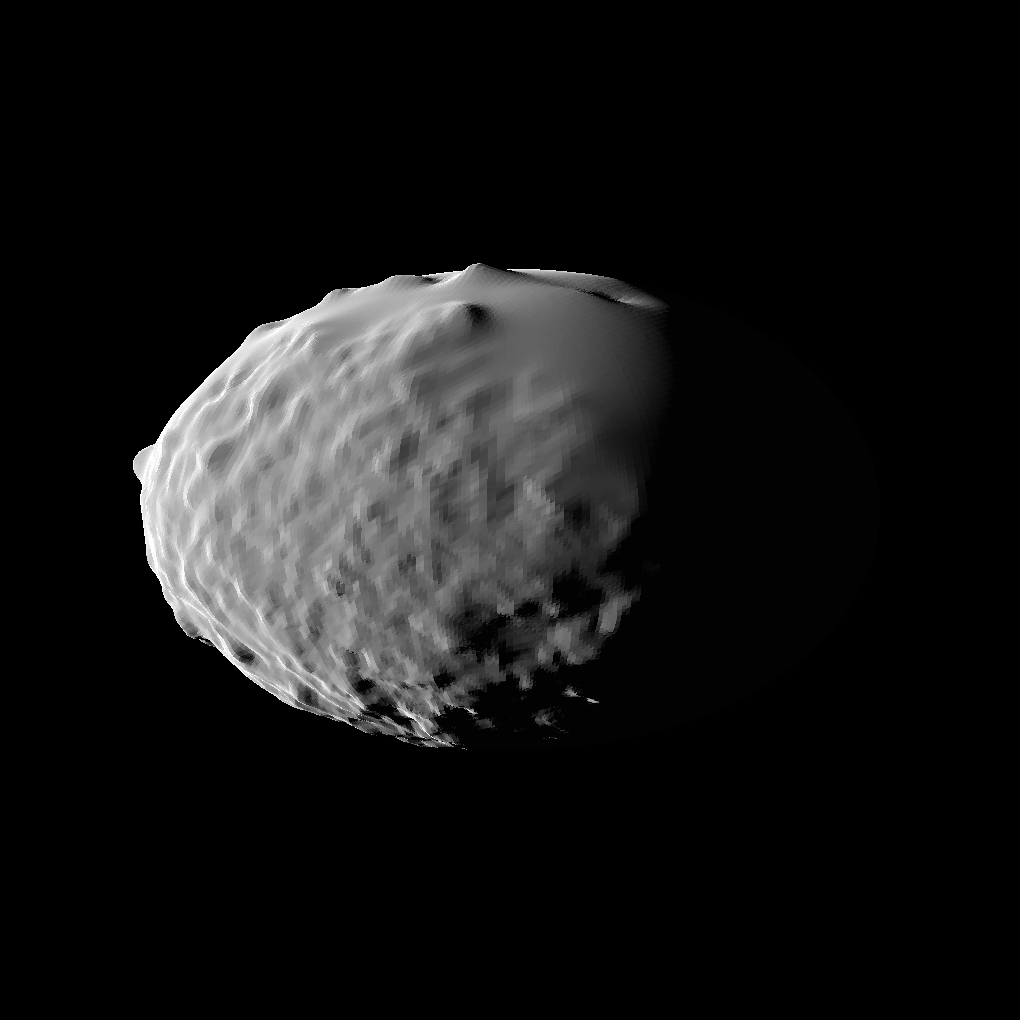
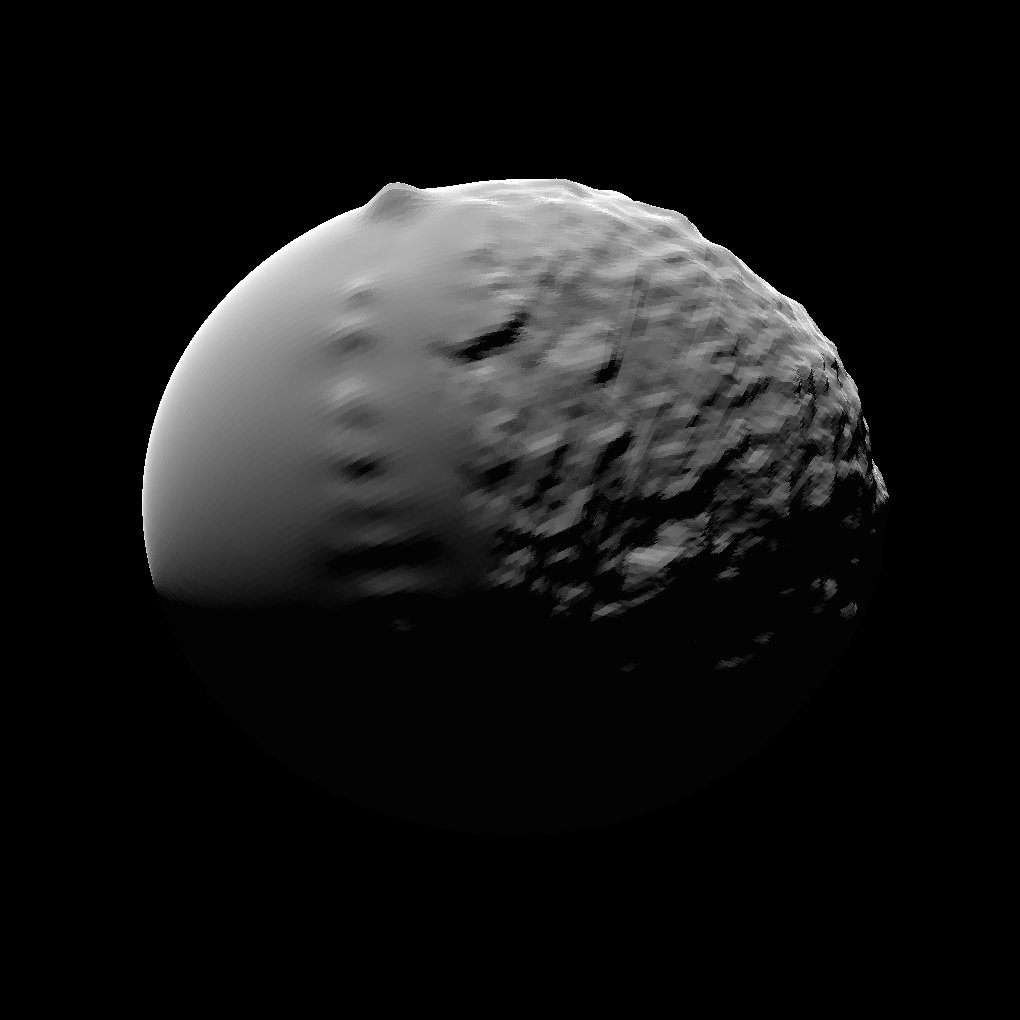
feat(tool): simulate-image de-shading is opt-in via --deshade
The de-shade correction is approximate (Lambert divisor on LS radiance, fitted
direction), so the safe constant-albedo rendering is now the default and the
texture path is explicitly requested with --deshade. Ladder docs re-rendered at
2027-03-15T16:00Z against the 2026-08-20 HERA SKD, which also surfaced two
lessons now documented as caveats: the DRACO mosaic footprint edge shows as a
seam when in view, and results follow the kernel-set version (planning kernels
are regenerated regularly), so record the SKD version alongside the gain.

diff --git a/docs/Pro3DTool-SimulateImage.md b/docs/Pro3DTool-SimulateImage.md
@@ -23,13 +23,15 @@ pro3d-tool simulate-image --opc <body-opc> --time <iso8601-utc> [options]
   PSJ](https://doi.org/10.3847/PSJ/ad2b60): near-lunar scattering, minimal multiple
   scattering, p ≈ 0.16). Plain Lambert shading over-darkens the limb for regolith;
   SPC's own forward model is the closely related lunar-Lambert function.
-- **De-shaded texture albedo.** OPC textures projected from real images (the DRACO
-  mosaic) have illumination baked in — for `Dimorphos_DRACO1` this is measurable:
-  per-vertex brightness follows the surface normal at r ≈ 0.6 with a hard terminator.
-  The verb fits the baked light direction from the OPC's own per-vertex normals and
-  brightness, divides it back out in the shader, and rescales so the mean matches
-  `--albedo`. Where the source mosaic is shadowed, unobserved (DRACO saw only one
-  hemisphere) or near its own terminator, the constant albedo is used instead.
+- **De-shaded texture albedo (opt-in, `--deshade`).** OPC textures projected from real
+  images (the DRACO mosaic) have illumination baked in — for `Dimorphos_DRACO1` this is
+  measurable: per-vertex brightness follows the surface normal at r ≈ 0.6 with a hard
+  terminator. With `--deshade`, the verb fits the baked light direction from the OPC's
+  own per-vertex normals and brightness, divides it back out in the shader, and rescales
+  so the mean matches `--albedo`. Where the source mosaic is shadowed, unobserved (DRACO
+  saw only one hemisphere) or near its own terminator, the constant albedo is used
+  instead. Off by default because the correction is approximate (see Caveats); the
+  default surface is the constant `--albedo` plus micro-structure.
 - **Procedural micro-structure.** The OPC is smooth at ~0.2 m/vertex; sub-mesh roughness
   is added by perturbing the shading normal with multi-octave value noise evaluated in
   body-fixed coordinates (`--micro-scale`, `--micro-amplitude`).
@@ -58,7 +60,7 @@ Output is one 8-bit greyscale PNG at the instrument's native size.
 | `--distance <m>` | camera range override, along the SPICE direction; `0` (default) uses the spacecraft's real distance |
 | `--width`, `--height` | output size; `0` (default) uses the instrument's native size |
 | `--albedo <v>` | normal reflectance (default `0.16`, measured for Dimorphos) |
-| `--no-deshade` | skip the texture de-shading; constant albedo everywhere |
+| `--deshade` | fit + divide the baked illumination out of the OPC texture and use it as albedo; default off (constant albedo) |
 | `--deshade-layer <name>` | per-vertex layer with the texture brightness (default `DRACO`) |
 | `--micro-scale <m>` | micro-structure feature size in metres (default `0.5`) |
 | `--micro-amplitude <v>` | normal perturbation strength; `0` disables (default `0.3`) |
@@ -75,9 +77,10 @@ is the inner one):
 ```
 pro3d-tool simulate-image ^
   --opc  C:\data\Dimorphos_DRACO1\Dimorphos_DRACO1 ^
-  --time 2027-03-15T19:00:00Z ^
+  --time 2027-03-15T16:00:00Z ^
   --distance 2500 ^
   --micro-scale 3 ^
+  --deshade ^
   --out  dimorphos.png
 ```
 
@@ -90,34 +93,34 @@ scripts/run-simulate-image.sh  <testdata>
 
 ## What it produces — layer by layer
 
-All renders: Dimorphos through AFC-1 from 2.5 km (2027-03-15T19:00Z, phase 70°,
-`--distance 2500 --micro-scale 3`). This is also the recommended validation procedure for
-a new dataset or a suspicious-looking image: switch the layers off, then re-enable them
-one at a time.
+All renders: Dimorphos through AFC-1 from 2.5 km (2027-03-15T16:00Z, phase 63°,
+`--distance 2500 --micro-scale 3`, HERA SKD as of 2026-08-20). This is also the
+recommended validation procedure for a new dataset or a suspicious-looking image: switch
+the layers off, then re-enable them one at a time.
 
 **1. Bare shape, Lommel-Seeliger shading only**
-(`--no-deshade --micro-amplitude 0 --no-shadows`). The ~2 m waffle pattern is the SPC
-model's native resolution showing through — the mesh is oversampled from a ~2 m GSD DTM —
-not a rendering artefact:
+(`--micro-amplitude 0 --no-shadows`). The ~2 m waffle pattern is the SPC model's native
+resolution showing through — the mesh is oversampled from a ~2 m GSD DTM — not a
+rendering artefact:
 
 ![](./images/simulateImage/1-geometry.png)
 
-**2. + procedural micro-structure** (`--no-deshade --no-shadows`). Regolith-scale grain
-masks the DTM waffle:
+**2. + procedural micro-structure** (`--no-shadows`). Regolith-scale grain masks the DTM
+waffle:
 
 ![](./images/simulateImage/2-micro.png)
 
-**3. + cast shadows** (`--no-deshade`) — the full renderer minus the texture, i.e. the
-**constant-albedo variant**. Concavities near the terminator darken; use this when the
-de-shading residuals are unwanted, or on OPCs whose texture has no usable brightness
-layer:
+**3. + cast shadows** (no flags — **the default**): constant albedo, micro-structure and
+shadows. Concavities near the terminator darken:
 
 ![](./images/simulateImage/3-shadows.png)
 
-**4. + de-shaded DRACO texture** (no flags — the default). Adds the real surface's
-albedo-like mid-tone variation. At this epoch the difference to (3) is deliberately
-subtle: measured albedo variation on Dimorphos is small, and the de-shaded values are
-compressed and clamped, so the texture modulates rather than dominates:
+**4. + de-shaded DRACO texture** (`--deshade`). Adds the real surface's albedo-like
+mid-tone variation. The difference to (3) is deliberately subtle: measured albedo
+variation on Dimorphos is small, and the de-shaded values are compressed and clamped, so
+the texture modulates rather than dominates. The dark seam crossing the disk is the
+**edge of the DRACO mosaic's footprint** — DART imaged only one hemisphere, and at this
+geometry that boundary is in view (see Caveats):
 
 ![](./images/simulateImage/4-full.png)
 
@@ -138,7 +141,13 @@ from far away — or move closer with `--distance`.
   shading survives; de-shaded albedo is clamped to 0.5–2× of `--albedo` (Li et al. 2024
   found the real albedo variation to be small).
 - **The DRACO texture is hemispheric.** The unobserved side falls back to constant
-  albedo, so the two hemispheres differ in texture character.
+  albedo, so the two hemispheres differ in texture character, and when the mosaic's
+  footprint edge is in view it shows as a seam — its texels ramp through dark values
+  that neither the de-shade division nor the fallback blend can fully hide.
+- **Results follow the kernel set.** The same command with a newer HERA SKD produces a
+  different image — planning kernels are regenerated regularly and move the spacecraft
+  and the body orientation. For reproducibility, record the kernel-set version (its git
+  commit or the `MK_IDENTIFIER` in the metakernel) together with the logged gain.
 - **Micro-structure is shading only.** Noise perturbs the normal; it casts no shadows,
   does not alter the silhouette, and is not real topography — a shape-from-shading
   inversion will happily reconstruct it as relief. That is acceptable for look-and-feel

diff --git a/TOOL_RELEASE_NOTES.md b/TOOL_RELEASE_NOTES.md
@@ -1,5 +1,5 @@
 ## 0.3.0
-- `simulate-image` — new verb: renders a simulated instrument image of a body at a SPICE time (spacecraft position from SPK, look-at pointing, instrument frustum). Lommel-Seeliger + 5% Lambert photometry per the measured Dimorphos behaviour (Li et al. 2024), texture albedo obtained by fitting and dividing out the illumination baked into the OPC texture (with constant-albedo fallback where the mosaic is shadowed or unobserved), procedural value-noise micro-structure via normal perturbation, cast shadows from an orthographic sun depth map, deterministic auto-exposure to an 8-bit greyscale PNG. `--distance` overrides the camera range along the SPICE direction for close-ups and layer-by-layer validation (`--no-deshade --micro-amplitude 0 --no-shadows`)
+- `simulate-image` — new verb: renders a simulated instrument image of a body at a SPICE time (spacecraft position from SPK, look-at pointing, instrument frustum). Lommel-Seeliger + 5% Lambert photometry per the measured Dimorphos behaviour (Li et al. 2024), procedural value-noise micro-structure via normal perturbation, cast shadows from an orthographic sun depth map, deterministic auto-exposure to an 8-bit greyscale PNG. `--deshade` (off by default, the correction is approximate) fits and divides out the illumination baked into the OPC texture and uses it as albedo, with constant-albedo fallback where the mosaic is shadowed or unobserved. `--distance` overrides the camera range along the SPICE direction for close-ups and layer-by-layer validation (`--no-deshade --micro-amplitude 0 --no-shadows`)
 
 ## 0.2.0
 - `kdtree` — `--degreesofparallelism` now treats `0` (the default, i.e. the option unspecified) and `-1` as "use all available cores"; `1` is single threaded. Previously `0` meant single threaded, which `1` already covered, and made sequential the accidental default. Reported by a tester

diff --git a/plans/pro3dToolSimulateImage.md b/plans/pro3dToolSimulateImage.md
@@ -33,7 +33,7 @@ angle backplanes.
 | Topic | Decision |
 |---|---|
 | Photometry | Lommel-Seeliger + fixed 5 % Lambert, normalized so i=e=0 → albedo. Phase function omitted (constant per image, absorbed by exposure). Hapke = future flag. |
-| Albedo | De-shade the OPC texture in-shader: fit the baked light direction from per-vertex `Normal.aara` × brightness layer (linear least squares, two passes), divide by the clamped Lambert term, rescale to `--albedo`, clamp to 0.5–2× (Li et al.: real variation is small), fall back to constant albedo where the mosaic is dark/unobserved. |
+| Albedo | Constant `--albedo` by default. `--deshade` (opt-in, the correction is approximate): fit the baked light direction from per-vertex `Normal.aara` × brightness layer (linear least squares, two passes), divide by the clamped Lambert term, rescale to `--albedo`, clamp to 0.5–2× (Li et al.: real variation is small), fall back to constant albedo where the mosaic is dark/unobserved. |
 | Micro-structure | Tangent-free normal perturbation from the gradient of 4-octave value noise on body-fixed coordinates. Tessellation displacement deferred. |
 | Shadows | 4096² depth map from an orthographic sun camera over the body bbox, 2×2 PCF. Note: `Frustum.ortho` takes the view-space box Z verbatim — near/far must be negated when the camera sits outside the box. |
 | Pointing | Look-at body centre; position from SPK (`getRelState`), no CK. Roll is an up-vector convention. |

diff --git a/docs/Pro3DTool.md b/docs/Pro3DTool.md
@@ -13,7 +13,7 @@ It supersedes the older `opc-tool` (see [Migrating](#migrating-from-opc-tool)).
 |---|---|---|
 | `kdtree` | Validate OPC directories and generate KdTrees | **[Pro3DTool-KdTree.md](./Pro3DTool-KdTree.md)** |
 | `sun-angles` | Per-pixel illumination geometry for instrument images, for photometric work such as image calibration | **[Pro3DTool-SunAngles.md](./Pro3DTool-SunAngles.md)** |
-| `simulate-image` | Simulated instrument image of a body at a SPICE time: Lommel-Seeliger sun lighting, de-shaded texture albedo, procedural micro-structure, cast shadows | **[Pro3DTool-SimulateImage.md](./Pro3DTool-SimulateImage.md)** |
+| `simulate-image` | Simulated instrument image of a body at a SPICE time: Lommel-Seeliger sun lighting, procedural micro-structure, cast shadows, optional de-shaded texture albedo | **[Pro3DTool-SimulateImage.md](./Pro3DTool-SimulateImage.md)** |
 
 ## Install
 

diff --git a/src/PRo3D.Tool/README.md b/src/PRo3D.Tool/README.md
@@ -13,7 +13,7 @@ dotnet tool install PRo3D.Tool --global
 |---|---|
 | `kdtree` | Validates OPC directories and generates KdTrees. No GPU or SPICE kernels needed. |
 | `sun-angles` | Writes per-pixel incidence, emission and phase angles for instrument images as float32 TIFFs in radians. Requires SPICE kernels and a GPU. |
-| `simulate-image` | Renders a simulated instrument image of a body at a SPICE time: Lommel-Seeliger sun lighting, de-shaded texture albedo, procedural micro-structure, cast shadows. Requires SPICE kernels and a GPU. |
+| `simulate-image` | Renders a simulated instrument image of a body at a SPICE time: Lommel-Seeliger sun lighting, procedural micro-structure, cast shadows, optional de-shaded texture albedo. Requires SPICE kernels and a GPU. |
 
 ```
 pro3d-tool kdtree --help
